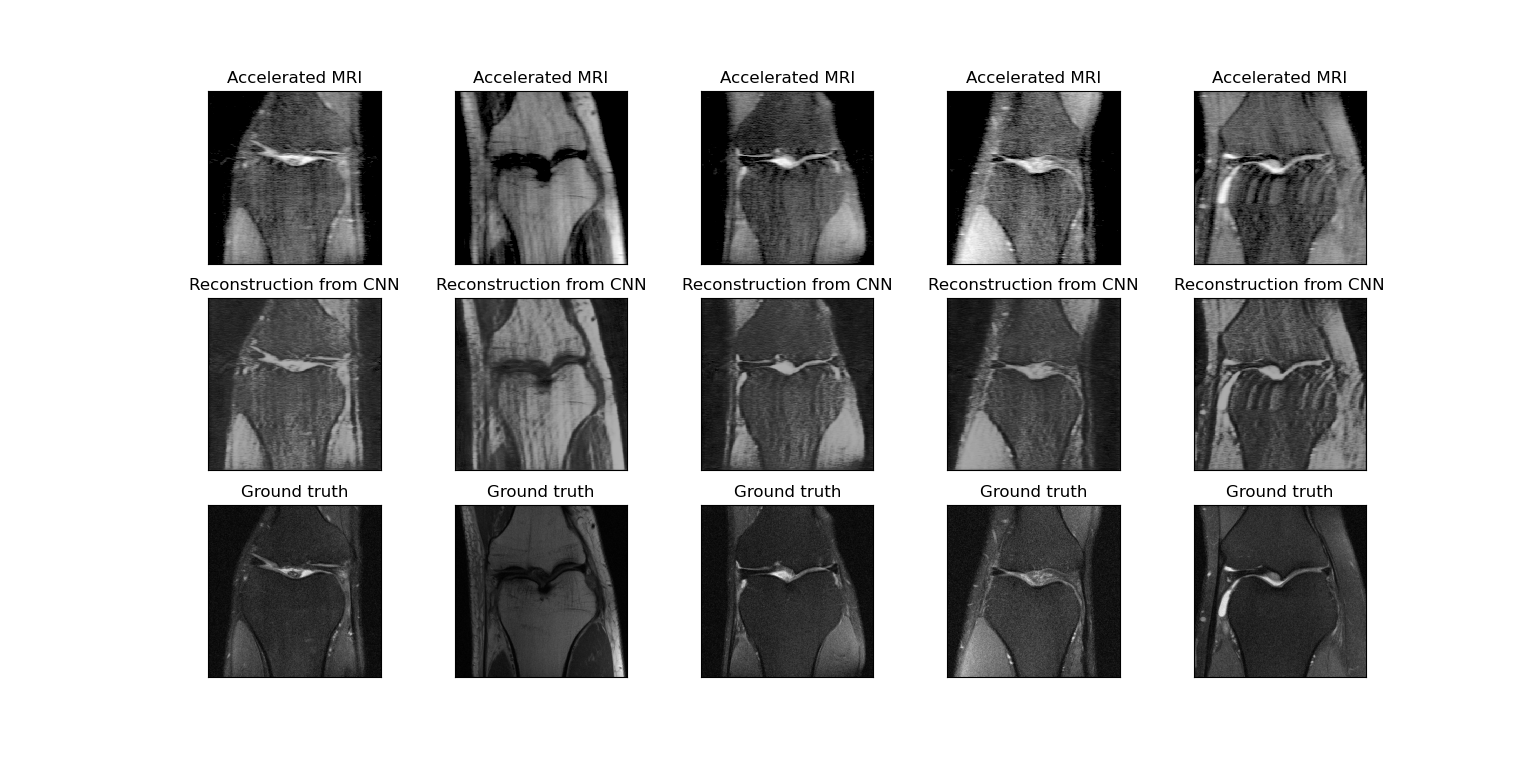
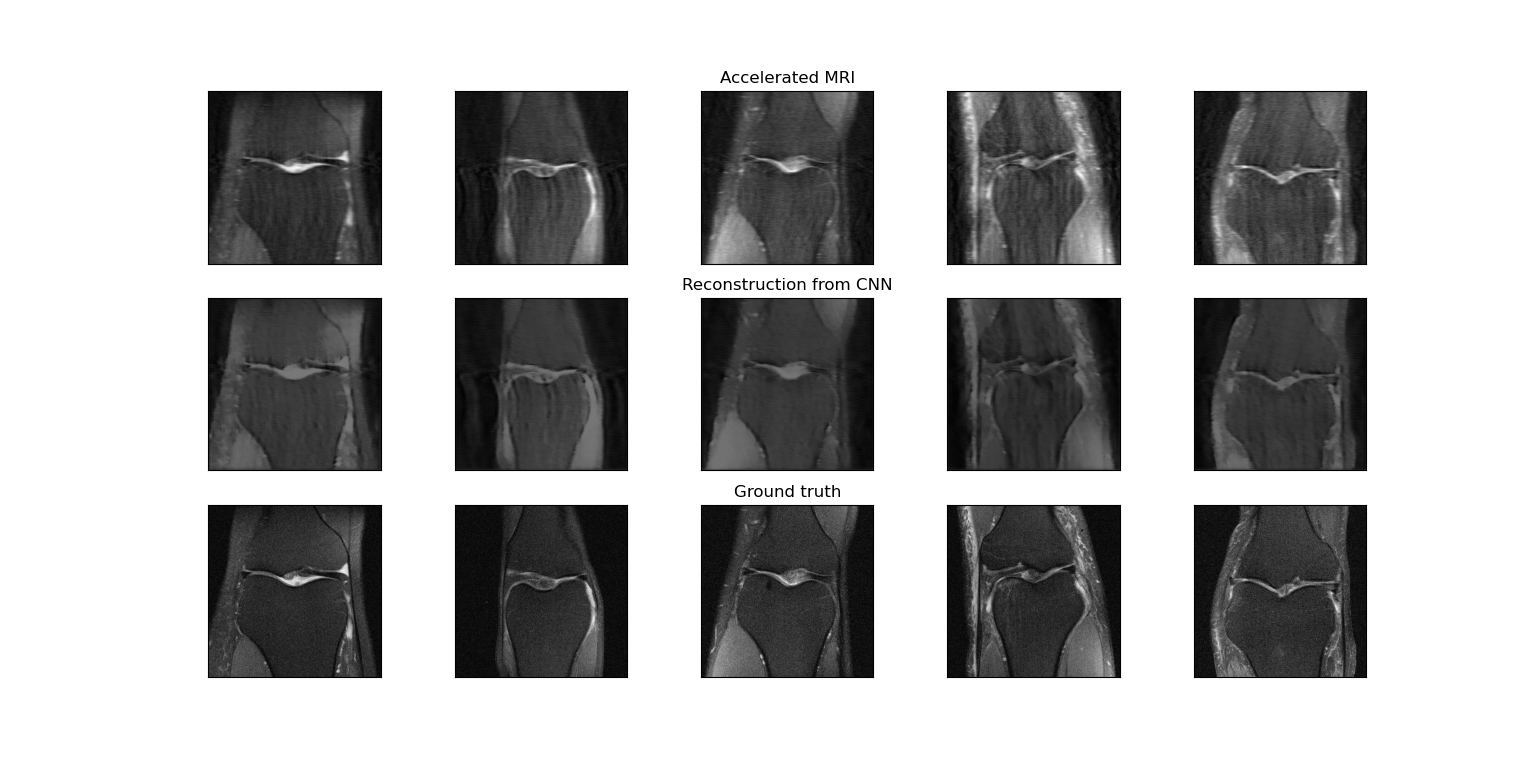
reduce features to 16 for ex5, and update image for ex5.

diff --git a/assignment_4/week_3_ex5.py b/assignment_4/week_3_ex5.py
@@ -15,16 +15,16 @@ class CNN_ex5(nn.Module):
         # create layers here
         self.conv = nn.Sequential(
             # input is N, 1, 320, 320
-            nn.Conv2d(in_channels=1, out_channels=64, kernel_size=(5, 5), stride=1, padding=2), # N, 64, 320, 320
-            nn.BatchNorm2d(64),
+            nn.Conv2d(in_channels=1, out_channels=16, kernel_size=(5, 5), stride=1, padding=2), # N, 16, 320, 320
+            nn.BatchNorm2d(16),
             nn.ReLU(),
-            nn.Conv2d(in_channels=64, out_channels=64, kernel_size=(5, 5), stride=1, padding=2), # N, 64, 320, 320
-            nn.BatchNorm2d(64),
+            nn.Conv2d(in_channels=16, out_channels=16, kernel_size=(5, 5), stride=1, padding=2), # N, 16, 320, 320
+            nn.BatchNorm2d(16),
             nn.ReLU(),
-            nn.Conv2d(in_channels=64, out_channels=64, kernel_size=(5, 5), stride=1, padding=2), # N, 64, 320, 320
-            nn.BatchNorm2d(64),
+            nn.Conv2d(in_channels=16, out_channels=16, kernel_size=(5, 5), stride=1, padding=2), # N, 16, 320, 320
+            nn.BatchNorm2d(16),
             nn.ReLU(),
-            nn.Conv2d(in_channels=64, out_channels=1, kernel_size=(5, 5), stride=1, padding=2), # N, 1, 320, 320
+            nn.Conv2d(in_channels=16, out_channels=1, kernel_size=(5, 5), stride=1, padding=2), # N, 1, 320, 320
             nn.BatchNorm2d(1),
             nn.Sigmoid()
         )
@@ -169,10 +169,10 @@ def train_model(model, train_loader, valid_loader, optimizer, criterion, n_epoch
 
         # write the model parameters to a file every 5 epochs
         if write_to_file and epoch % 5 == 0:
-            torch.save(model.state_dict(), f"{save_path}cnn_{epoch}_epochs.pth")
+            torch.save(model.state_dict(), f"{save_path}CNN_{epoch}_epochs.pth")
 
     if write_to_file:
-        torch.save(model.state_dict(), f"{save_path}_{epoch}_epochs.pth")
+        torch.save(model.state_dict(), f"{save_path}CNN_{epoch}_epochs.pth")
 
     # return the trained model
     return model, train_losses, valid_losses
@@ -182,22 +182,25 @@ def plot_ex5c(test_acc_mri, test_x_out, test_gt, save_path):
     plt.figure(figsize = (12,12))
     for i in range(5):
         plt.subplot(3,5,i+1)
-        plt.imshow(test_acc_mri[i+1,0,:,:],vmin=-1.5, vmax=2, interpolation='bilinear',cmap='gray')
+        plt.imshow(test_acc_mri[i+1,0,:,:],cmap='gray')
         plt.xticks([])
         plt.yticks([])
-        plt.title('Accelerated MRI')
+        if i == 2:
+            plt.title('Accelerated MRI')
 
         plt.subplot(3,5,i+6)
-        plt.imshow(test_x_out[i+1,0,:,:],vmax=2, interpolation='nearest',cmap='gray')
+        plt.imshow(test_x_out[i+1,0,:,:],vmax=2,cmap='gray')
         plt.xticks([])
         plt.yticks([])
-        plt.title('Reconstruction from CNN')
+        if i == 2:
+            plt.title('Reconstruction from CNN')
 
         plt.subplot(3,5,i+11)
         plt.imshow(test_gt[i+1,0,:,:],cmap='gray')
         plt.xticks([])
         plt.yticks([])
-        plt.title('Ground truth')
+        if i == 2:
+            plt.title('Ground truth')
 
     #plt.savefig(f"{save_path}", dpi=300, bbox_inches='tight')
     plt.show()
@@ -233,7 +236,7 @@ def plot_loss(train_losses, test_losses, save_path):
 if __name__ == "__main__":
     
     data_loc = 'assignment_4/Fast_MRI_Knee/' #change the datalocation to something that works for you
-    batch_size = 6
+    batch_size = 12
 
     train_loader, test_loader = create_dataloaders(data_loc, batch_size)
 
@@ -242,7 +245,7 @@ if __name__ == "__main__":
     # train the model
     device = torch.device('cuda:0')
     # n_epochs = 10
-    # learning_rate = 5e-5
+    # learning_rate = 1e-4
     # criterion = nn.MSELoss()
     # optimizer = optim.Adam(model.parameters(), lr=learning_rate)
 
@@ -254,8 +257,8 @@ if __name__ == "__main__":
 
     # # exercise 5c
 
-    # load the trained model
-    model = load_model(model, "assignment_4/models/5_cnn_epochs.pth")
+    # # load the trained model
+    model = load_model(model, "assignment_4/models/cnn_9_epochs.pth")
     for i,(kspace, M, gt) in enumerate(tqdm(test_loader)):
         if i == 1:
             break
@@ -265,7 +268,7 @@ if __name__ == "__main__":
 
     # get accelerated MRI image from partial k-space
     test_acc_mri = ifft2(kspace_unsqueeze)
-    test_acc_mri = torch.log(torch.abs(test_acc_mri)+1e-20)
+    test_acc_mri = torch.abs(test_acc_mri)
 
     # get reconstructed image from CNN
     test_x_out = model(test_acc_mri)
@@ -277,5 +280,5 @@ if __name__ == "__main__":
 
 
     # exercise 5d 
-    # The mean squared error between ground truth and CNN output is 0.0187.
+    # The mean squared error between ground truth and CNN output is 0.0198343.
 
